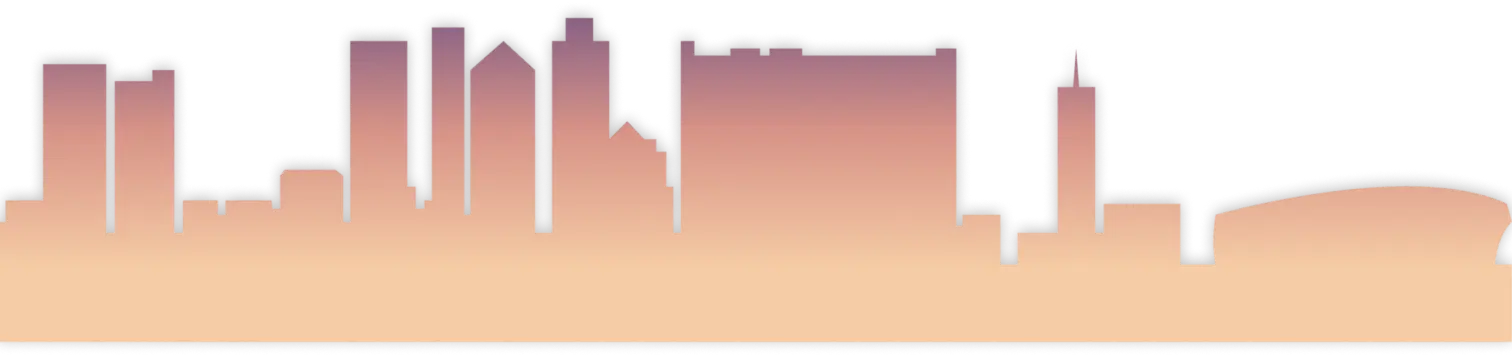
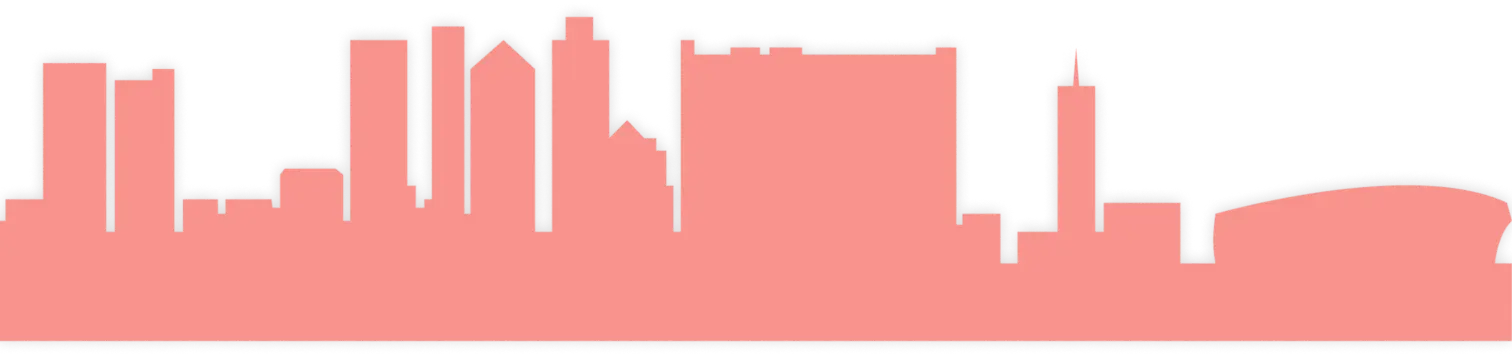
Add Tech stack section and complete Experience
Experience section finished and modular to add more. Added modular tech stack to easily add more.

diff --git a/src/components/hero/Hero.jsx b/src/components/hero/Hero.jsx
@@ -13,7 +13,7 @@ export default function Hero() {
   return (
     <>
       <div className="h-screen flex items-center justify-center flex-col space-y-14">
-        <div className="text-6xl md:text-7xl text-center text-shadow text-brand-gunmetal font-bold font-pacifico [text-wrap:balance] bg-clip-text">the <span className="inline-flex flex-col h-[calc(theme(fontSize.6xl)*theme(lineHeight.tight))] md:h-[calc(theme(fontSize.7xl)*theme(lineHeight.tight))] overflow-hidden">
+        <div className="text-6xl md:text-7xl text-center text-shadow text-gunmetal font-bold font-pacifico [text-wrap:balance] bg-clip-text">the <span className="inline-flex flex-col h-[calc(theme(fontSize.6xl)*theme(lineHeight.tight))] md:h-[calc(theme(fontSize.7xl)*theme(lineHeight.tight))] overflow-hidden">
             <ul className="block animate-text-slide sm:text-center md:text-left leading-tight [&_li]:block">
                 <li>Ambitious</li>
                 <li>Fun</li>
@@ -23,9 +23,9 @@ export default function Hero() {
                 <li aria-hidden="true">Ambitious</li>
             </ul>
         </span><br/>Developer</div>
-        <h4 className="text-xl md:text-2xl text-shadow-sm text-brand-gunmetal font-jua">My actual name is Rob<br/>I'm a full-stack developer.</h4>
+        <h4 className="text-xl md:text-2xl text-shadow-sm text-gunmetal font-jua">My actual name is Rob<br/>I'm a full-stack developer.</h4>
         <input
-          className="w-3/4 lg:w-1/2 px-4 py-4 border bg-brand-gunmetal border-brand-gunmetal text-sm md:text-base font-jua text-slate-200 placeholder-slate-200 placeholder-opacity-50 rounded-2xl"
+          className="w-3/4 lg:w-1/2 px-4 py-4 border bg-gunmetal border-gunmetal text-sm md:text-base font-jua text-slate-200 placeholder-slate-200 placeholder-opacity-50 rounded-2xl"
           type="text"
           placeholder="What do you want to know about Rob?"
           value={inputValue}
@@ -36,8 +36,8 @@ export default function Hero() {
           <a href="https://github.com/robbiehaynes" target='_blank'>
             <button
               type="button"
-              className="inline-block rounded px-6 py-2.5 text-xs font-medium uppercase leading-normal text-white shadow-lg transition duration-150 ease-in-out hover:shadow-lg focus:shadow-lg focus:outline-none focus:ring-0 active:shadow-lg"
-              style={{ backgroundColor: "#015662" }}
+              className="inline-block rounded px-6 py-2.5 text-xs font-medium uppercase leading-normal text-coral shadow-lg transition duration-150 ease-in-out hover:shadow-lg focus:shadow-lg focus:outline-none focus:ring-0 active:shadow-lg"
+              style={{ backgroundColor: "#2B303A" }}
             >
               <svg
                 xmlns="http://www.w3.org/2000/svg"
@@ -52,13 +52,13 @@ export default function Hero() {
           <a href="https://www.linkedin.com/in/roberthaynesza/" target='_blank'>
             <button
               type="button"
-              className="inline-block rounded px-6 py-2.5 text-xs font-medium uppercase leading-normal text-white shadow-lg transition duration-150 ease-in-out hover:shadow-lg focus:shadow-lg focus:outline-none focus:ring-0 active:shadow-lg"
-              style={{ backgroundColor: "#015662" }}
+              className="inline-block rounded px-6 py-2.5 text-xs font-medium uppercase leading-normal text-coral shadow-lg transition duration-150 ease-in-out hover:shadow-lg focus:shadow-lg focus:outline-none focus:ring-0 active:shadow-lg"
+              style={{ backgroundColor: "#2B303A" }}
             >
               <svg
                 xmlns="http://www.w3.org/2000/svg"
                 className="h-4 w-4"
-                fill="#FFFFFF"
+                fill="currentColor"
                 viewBox="0 0 24 24"
               >
                 <path d="M4.98 3.5c0 1.381-1.11 2.5-2.48 2.5s-2.48-1.119-2.48-2.5c0-1.38 1.11-2.5 2.48-2.5s2.48 1.12 2.48 2.5zm.02 4.5h-5v16h5v-16zm7.982 0h-4.968v16h4.969v-8.399c0-4.67 6.029-5.052 6.029 0v8.399h4.988v-10.131c0-7.88-8.922-7.593-11.018-3.714v-2.155z" />

diff --git a/tailwind.config.js b/tailwind.config.js
@@ -10,15 +10,13 @@ export default {
   theme: {
     extend: {
       colors: {
-        'brand-gunmetal': '#2B303A',
-        'brand-coral': '#F7877F',
-        'brand-dark-coral': '#E46D5E',
-        'brand-vista-blue': '#8D9EC6',
-        'brand-dark-blue': '#015662',
-        'brand-tea-green': '#D4E4BC',
-        'brand-beige': '#EEF5DB',
-        'gradient-orange': '#F5B59A',
-        'gradient-yelow': '#FFF6DE',
+        'gunmetal': '#2B303A',
+        'light-gunmetal': '#444C5C',
+        'black-bean': '#331917',
+        'coral': '#F7877F',
+        'van-dyke': '#4D3230',
+        'cinereous': '#A28B89',
+        'rosy-brown': '#CD8F8B',
       },
       textShadow: {
         sm: '0 1px 4px #00000060',
@@ -30,29 +28,34 @@ export default {
         'jua': ['Jua', 'sans-serif'],
       },
       animation: {
+        'infinite-scroll': 'infinite-scroll 25s linear infinite',
         'text-slide': 'text-slide 12.5s cubic-bezier(0.83, 0, 0.17, 1) infinite',
       },
       keyframes: {
-          'text-slide': {
-              '0%, 16%': {
-                  transform: 'translateY(0%)',
-              },
-              '20%, 36%': {
-                  transform: 'translateY(-16.66%)',
-              },
-              '40%, 56%': {
-                  transform: 'translateY(-33.33%)',
-              },
-              '60%, 76%': {
-                  transform: 'translateY(-50%)',
-              },
-              '80%, 96%': {
-                  transform: 'translateY(-66.66%)',
-              },
-              '100%': {
-                  transform: 'translateY(-83.33%)',
-              },
-          },                    
+        'infinite-scroll': {
+          from: { transform: 'translateX(0)' },
+          to: { transform: 'translateX(-100%)' },
+        },
+        'text-slide': {
+            '0%, 16%': {
+                transform: 'translateY(0%)',
+            },
+            '20%, 36%': {
+                transform: 'translateY(-16.66%)',
+            },
+            '40%, 56%': {
+                transform: 'translateY(-33.33%)',
+            },
+            '60%, 76%': {
+                transform: 'translateY(-50%)',
+            },
+            '80%, 96%': {
+                transform: 'translateY(-66.66%)',
+            },
+            '100%': {
+                transform: 'translateY(-83.33%)',
+            },
+        },                    
       },
     },
   },

diff --git a/src/components/Experience.jsx b/src/components/Experience.jsx
@@ -14,8 +14,8 @@ const ExperienceCard = ({ experience }) => {
   return (
     <VerticalTimelineElement
       contentStyle={{
-        background: "#1d1836",
-        color: "#fff",
+        background: "#373D4A",
+        color: "#FFF",
       }}
       contentArrowStyle={{ borderRight: "7px solid  #232631" }}
       date={experience.date}
@@ -31,9 +31,9 @@ const ExperienceCard = ({ experience }) => {
       }
     >
       <div>
-        <h3 className='text-white text-[24px] font-bold'>{experience.title}</h3>
+        <h3 className='text-coral font-jua uppercase text-[24px] font-bold'>{experience.title}</h3>
         <p
-          className='text-secondary text-[16px] font-semibold'
+          className='text-coral text-opacity-50 font-jua text-[16px] font-semibold'
           style={{ margin: 0 }}
         >
           {experience.company_name}
@@ -44,7 +44,7 @@ const ExperienceCard = ({ experience }) => {
         {experience.points.map((point, index) => (
           <li
             key={`experience-point-${index}`}
-            className='text-white-100 text-[14px] pl-1 tracking-wider'
+            className='text-white text-opacity-75 font-sans text-[14px] pl-1 tracking-wider'
           >
             {point}
           </li>
@@ -56,12 +56,12 @@ const ExperienceCard = ({ experience }) => {
 
 const Experience = () => {
   return (
-    <div className="bg-brand-dark-blue">
+    <div className=" pt-20 min-h-screen w-screen bg-gunmetal">
       <motion.div variants={textVariant()}>
-        <p className='sm:text-[18px] text-[14px] text-secondary uppercase tracking-wider font-jua text-center'>
+        <p className='sm:text-[18px] text-[14px] text-coral text-opacity-60 uppercase tracking-wider font-jua text-center'>
           What I have done so far
         </p>
-        <h2 className='text-white font-black md:text-[60px] sm:text-[50px] xs:text-[40px] text-[30px] font-pacifico text-center'>
+        <h2 className='text-coral font-black md:text-[60px] sm:text-[50px] xs:text-[40px] text-[30px] font-pacifico text-center'>
           Work Experience.
         </h2>
       </motion.div>

diff --git a/src/constants/index.js b/src/constants/index.js
@@ -1,5 +1,13 @@
 import studydrive from "../assets/logos/studydrive.webp";
 import jlr from "../assets/logos/jlr.webp";
+import cplusplus from "../assets/tech/icons8-c++.svg";
+import firebase from "../assets/tech/icons8-firebase.svg";
+import html5 from "../assets/tech/icons8-html5.svg";
+import java from "../assets/tech/icons8-java.svg";
+import python from "../assets/tech/icons8-python.svg";
+import react from "../assets/tech/icons8-react.svg";
+import swift from "../assets/tech/icons8-swift.svg";
+import tailwind from "../assets/tech/icons8-tailwind-css.svg";
 
 const experiences = [
     {
@@ -16,7 +24,7 @@ const experiences = [
     },
     {
         title: "Undergraduate Software Engineer",
-        company_name: "JLR",
+        company_name: "Jaguar Land Rover",
         icon: jlr,
         iconBg: "#FFFFFF",
         date: "Jul 2023 - Present",
@@ -30,4 +38,39 @@ const experiences = [
     },
 ];
 
-export { experiences };    
+const logos = [
+    {
+        'src': cplusplus,
+        'alt': 'C++'
+    },
+    {
+        'src': firebase,
+        'alt': 'Firebase'
+    },
+    {
+        'src': html5,
+        'alt': 'HTML5'
+    },
+    {
+        'src': java,
+        'alt': 'Java'
+    },
+    {
+        'src': python,
+        'alt': 'Python'
+    },
+    {
+        'src': react,
+        'alt': 'React'
+    },
+    {
+        'src': swift,
+        'alt': 'Swift'
+    },
+    {
+        'src': tailwind,
+        'alt': 'Tailwind CSS'
+    },
+]
+
+export { experiences, logos };    

diff --git a/src/components/Parallax.jsx b/src/components/Parallax.jsx
@@ -1,6 +1,7 @@
 import Hero from './hero/Hero';
 import Overview from './hero/Overview';
 import Experience from './Experience';
+import Tech from './Tech';
 import { Parallax, ParallaxLayer } from '@react-spring/parallax';
 import mountains from '../assets/parallax/mountains.webp';
 import city1 from '../assets/parallax/city-1.webp';
@@ -11,7 +12,7 @@ import beach from '../assets/parallax/beach-and-promenade.webp';
 const ParallaxComponent = () => {
     return (
         <div className="w-screen h-screen">
-            <Parallax pages={3} className="w-screen h-screen overflow-hidden scroll-smooth relative place-items-center bg-gradient-to-b from-gradient-orange to-gradient-yelow">
+            <Parallax pages={4} className="w-screen h-screen overflow-hidden scroll-smooth relative place-items-center bg-coral">
                 <ParallaxLayer offset={0.29} speed={-0.7}>
                 <div style={{backgroundImage: `url(${mountains})`}} className="bg-cover bg-top aspect-video lg:aspect-[168/53]"></div>
                 </ParallaxLayer>
@@ -34,6 +35,9 @@ const ParallaxComponent = () => {
                     <Overview />
                 </ParallaxLayer>
                 <ParallaxLayer offset={2} speed={0}>
+                    <Tech />
+                </ParallaxLayer>
+                <ParallaxLayer offset={2.25} speed={0}>
                     <Experience />
                 </ParallaxLayer>
             </Parallax>

diff --git a/src/components/Tech.jsx b/src/components/Tech.jsx
@@ -1,0 +1,29 @@
+import React from "react";
+
+import { logos } from "../constants";
+
+const Tech = () => {
+    return (
+        <main className="relative h-1/4 flex flex-col justify-center bg-coral overflow-hidden">
+            <h2 className="text-3xl text-gunmetal font-jua uppercase text-center mb-8">My Tech Stack</h2>
+            <div className="w-full inline-flex flex-nowrap overflow-hidden [mask-image:_linear-gradient(to_right,transparent_0,_black_128px,_black_calc(100%-128px),transparent_100%)]">
+                <ul className="flex items-center justify-center md:justify-start [&_li]:mx-8 [&_img]:max-w-none animate-infinite-scroll">
+                    {logos.map((logo, index) => (
+                        <li key={`logo-${index}`}>
+                            <img src={logo.src} alt={logo.alt}/>
+                        </li>
+                    ))}
+                </ul> 
+                <ul className="flex items-center justify-center md:justify-start [&_li]:mx-8 [&_img]:max-w-none animate-infinite-scroll" aria-hidden="true">
+                    {logos.map((logo, index) => (
+                        <li key={`logo-${index}`}>
+                            <img src={logo.src} alt={logo.alt}/>
+                        </li>
+                    ))}
+                </ul>   
+            </div>
+        </main>
+    )
+}
+
+export default Tech;

diff --git a/src/components/hero/Overview.jsx b/src/components/hero/Overview.jsx
@@ -4,13 +4,13 @@ import robavatar from '../../assets/rob-avatar.webp';
 
 const Overview = () => {
   return (
-    <div className="relative flex flex-col md:flex-row justify-start items-center w-full h-screen bg-brand-dark-blue">
+    <div className="relative flex flex-col md:flex-row justify-start items-center w-full h-screen bg-gunmetal">
         <div className="absolute top-0 left-0 w-full h-full"></div>
         <div className="pt-20 mb-8 px-24 w-full md:w-3/5 lg:w-1/2">
             <p className="text-xs md:text-base text-white opacity-75 mb-4 font-jua uppercase tracking-wider">Let's get to know me a little...</p>
-            <h2 className="text-6xl md:text-7xl text-brand-tea-green font-pacifico text-shadow">Overview.</h2>
+            <h2 className="text-6xl md:text-7xl text-coral font-pacifico text-shadow">Overview.</h2>
 
-            <p className='mt-8 text-brand-beige opacity-75 font-jua text-base lg:text-lg max-w-3xl leading-[30px]'>
+            <p className='mt-8 text-coral opacity-60 font-jua text-base lg:text-lg max-w-3xl leading-[30px]'>
             Hey! I'm Rob Haynes, an enthusiastic and dedicated Computer Science student at the University of Manchester, 
             currently on a transformative journey as an Undergraduate Software Engineer at JLR.
             <br/><br/>
